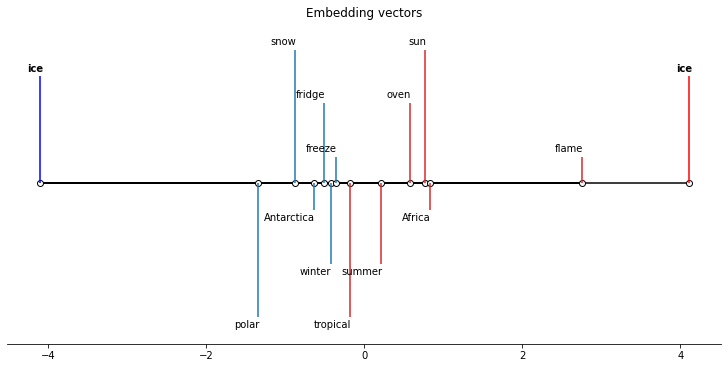
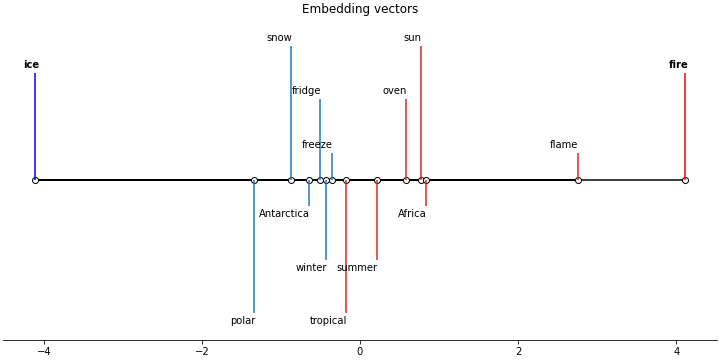
Last plot fixed

diff --git a/content/post/2022-05-21-how-icy-is-sun/word-embedding.md b/content/post/2022-05-21-how-icy-is-sun/word-embedding.md
@@ -440,7 +440,7 @@ ice_fire_axis.plot(
         {'values': cold_values, 'labels': cold, 'color': 'tab:blue'},
         {'values': warm_values, 'labels': warm, 'color': 'tab:red'},
         poles = {'negative': {'label': 'ice', 'color': 'blue'}, 
-                 'positive': {'label': 'ice', 'color': 'red'}}
+                 'positive': {'label': 'fire', 'color': 'red'}}
     )   
 ```
 
